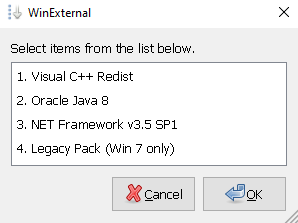
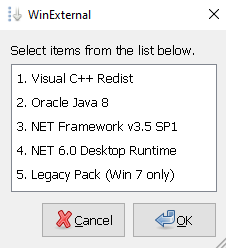
Update 04/19/2022

Changed region(s): [[0.031, 0.1614, 1.0, 1.0], [0.031, 0.0269, 0.4027, 0.1076], [0.9292, 0.0269, 0.9912, 0.0807]]

diff --git a/README.md b/README.md
@@ -12,11 +12,11 @@
 
 ---
 
-[![Image](https://raw.githubusercontent.com/maravento/winexternal/master/img/download.png)](https://mega.nz/file/3ds1hIRB#ZT9N26lvxOpY14pBwmtIWVxJ8EKEtbhJ9cvePnka5Dg)
+[![Image](https://raw.githubusercontent.com/maravento/winexternal/master/img/download.png)](https://mega.nz/file/Wc9DnSBJ#rMKOytNgwUTXCo4QThMLGaUns5geA974JygFjyWQpL0)
 
 |File|OS|Size|
 | :---: | :---: | :---: |
-|WinExternal.exe (.zip)|Windows 7/8/10/11 x86 x64|540,2 MB|
+|WinExternal.exe (.zip)|Windows 7/8/10/11 x86 x64|645 MB|
 
 ## HOW TO USE
 
@@ -44,7 +44,7 @@ WinExternal contains standalone packages. Select the one of your preference / Wi
 - Microsoft Visual C++ 2012 Additional and Minimum Runtime x86 x64 (11.0.61135.400)
 - Microsoft Visual C++ 2013 Additional and Minimum Runtime x86 x64 (12.0.40664.0)
 - Microsoft Visual C++ 2019 Additional and Minimum Runtime x86 x64 (14.29.30130.2)
-- Microsoft Visual C++ 2022 Additional and Minimum Runtime x86 x64 (14.32.31302.0)
+- Microsoft Visual C++ 2022 Additional and Minimum Runtime x86 x64 (14.32.31326.0)
 - Microsoft Visual Legacy Runtimes x86: Basic/C++ 2002 (7.0.9975.0) - 2003 (7.10.6119.0)
 - Microsoft Visual Studio 2010 Tools for Office Runtime x86 x64 (10.0.60833.0)
 
@@ -65,6 +65,12 @@ WinExternal contains standalone packages. Select the one of your preference / Wi
 - Backward compatibility with previous versions of Windows 10/11 21H2 or Windows Server versions is not guaranteed / No se garantiza retro-compatibilidad con versiones anteriores de Windows 10/11 21H2 o versiones Windows Server
 - Only OS English/Spanish / Solo SO Inglés/Español
 - Installation can fail for many reasons. In this case, unzip `WinExternal.exe` on your operating system drive (e.g.: `c:\`), go to `WinExternal\NET35\alternative` and run the `Install .NET Framework 3.5 via DISM.cmd` script with administrative privileges (ISO image required). For more information see `WinExternal\NET35\alternative\readme.txt` / La instalación puede fallar por muchas causas. En este caso descomprima `WinExternal.exe` en la unidad de su sistema operativo (ej: `c:\`), acceda a `WinExternal\NET35\alternative` y ejecute el script `Install .NET Framework 3.5 via DISM.cmd` con privilegios administrativos (requiere imagen ISO). Para mayor información consulte `WinExternal\NET35\alternative\readme.txt`
+
+### .NET 6.0 Desktop Runtime
+
+[![Image](https://raw.githubusercontent.com/maravento/winexternal/master/img/winexternal-netruntime.png)](https://www.maravento.com/p/winexternal.html)
+
+- .NET 6.0 Desktop Runtime (6.0.4) x86 x64 Run Desktop Apps
 
 ### Legacy Pack (Win 7 only)
 
@@ -102,6 +108,7 @@ The following installers no longer run on WinExternal: / Los siguientes instalad
 - [icon-icons](https://icon-icons.com/icon/dot-net-original-logo/146546)
 - [Microsoft DirectX End-User Runtime](https://www.microsoft.com/en-us/download/details.aspx?id=8109)
 - [Microsoft NetFramework](https://dotnet.microsoft.com/download/dotnet-framework)
+- [Microsoft .NET Desktop Runtime](https://dotnet.microsoft.com/en-us/download/dotnet/6.0/runtime?cid=getdotnetcore)
 - [Microsoft Visual C++](https://docs.microsoft.com/en-US/cpp/windows/latest-supported-vc-redist?view=msvc-170)
 - [Microsoft XNA Framework Redistributable](https://www.microsoft.com/en-us/download/details.aspx?id=27598)
 - [Oracle Java 8](https://www.java.com/en/download/manual.jsp)
